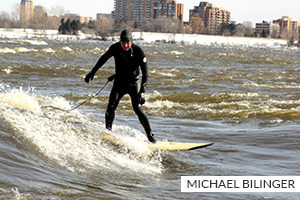
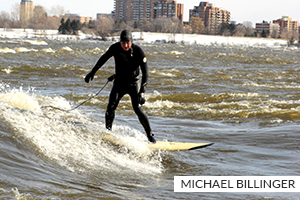
Updating image name (wrong last name) and added prices on interactive equipment diagram

Changed region(s): [[0.57, 0.87, 0.99, 0.96]]

diff --git a/public_html/index.html b/public_html/index.html
@@ -217,23 +217,23 @@
                             <div id="equipment">
 
                                 <div id="boardInfo" class="info"> 
-                                    The surfboard, the main tool for surfers use to glide effortlessly across the rough currents.These boards are very light and can range in shapes and sizes. Surfboards can range from anywhere from $300 to 1000. 
+                                    <b class="price"> Board: $300 - $1000</b> <br/> The surfboard, the main tool for surfers use to glide effortlessly across the rough currents.These boards are very light and can range in shapes and sizes. 
                                 </div>
 
                                 <div id="ropeInfo" class="info"> 
-                                    The wakeboard rope is used mainly in standing river waves, which provides easy access to the flow of flowing water.  
+                                    <b class="price"> Rope: $70 - $130</b> <br/> The wakeboard rope is used mainly in standing river waves, which provides easy access to the flow of flowing water.  
                                 </div>
 
                                 <div id="leashInfo" class="info"> 
-                                    The leash is essential for keeping the surfer attached to the surfboard. If the surfer falls while riding the wave the leash keeps the surfer in close proximity to the surfboard. The leash is usually attached to the ankle of the surfer, while the other part of the leash is attached to the back of the surfboard. The leash and surfboard are sold separately and range from $40 to 50.   
+                                    <b class="price"> Leash: $40 - $50 </b> <br/> The leash is essential for keeping the surfer attached to the surfboard. If the surfer falls while riding the wave the leash keeps the surfer in close proximity to the surfboard. The leash is usually attached to the ankle of the surfer, while the other part of the leash is attached to the back of the surfboard.   
                                 </div>
 
                                 <div id="glovesInfo" class="info"> 
-                                    The wetsuit and gloves are sold separately, winter surfers prefer 4 - 5mm thick gloves.  
+                                    <b class="price"> Gloves: $50 </b> <br/> The wetsuit and gloves are sold separately, winter surfers prefer 4 - 5mm thick gloves.  
                                 </div>
 
                                 <div id="bootsInfo" class="info"> 
-                                    The boots and gloves are sold separately, winter surfers prefer 4 - 5mm thick boots. 
+                                    <b class="price"> Boots: $50 </b> <br/> The boots and gloves are sold separately, winter surfers prefer 4 - 5mm thick boots. 
                                 </div>
 
                                 <div class="row">

diff --git a/public_html/main.css b/public_html/main.css
@@ -491,6 +491,11 @@ hr {
 	display:block;
 }
 
+.price {
+	font-size:18px;
+	text-decoration: underline;
+}
+
 @media screen and (max-width: 1310px) {
     #screenWarning {
     	position:fixed;
